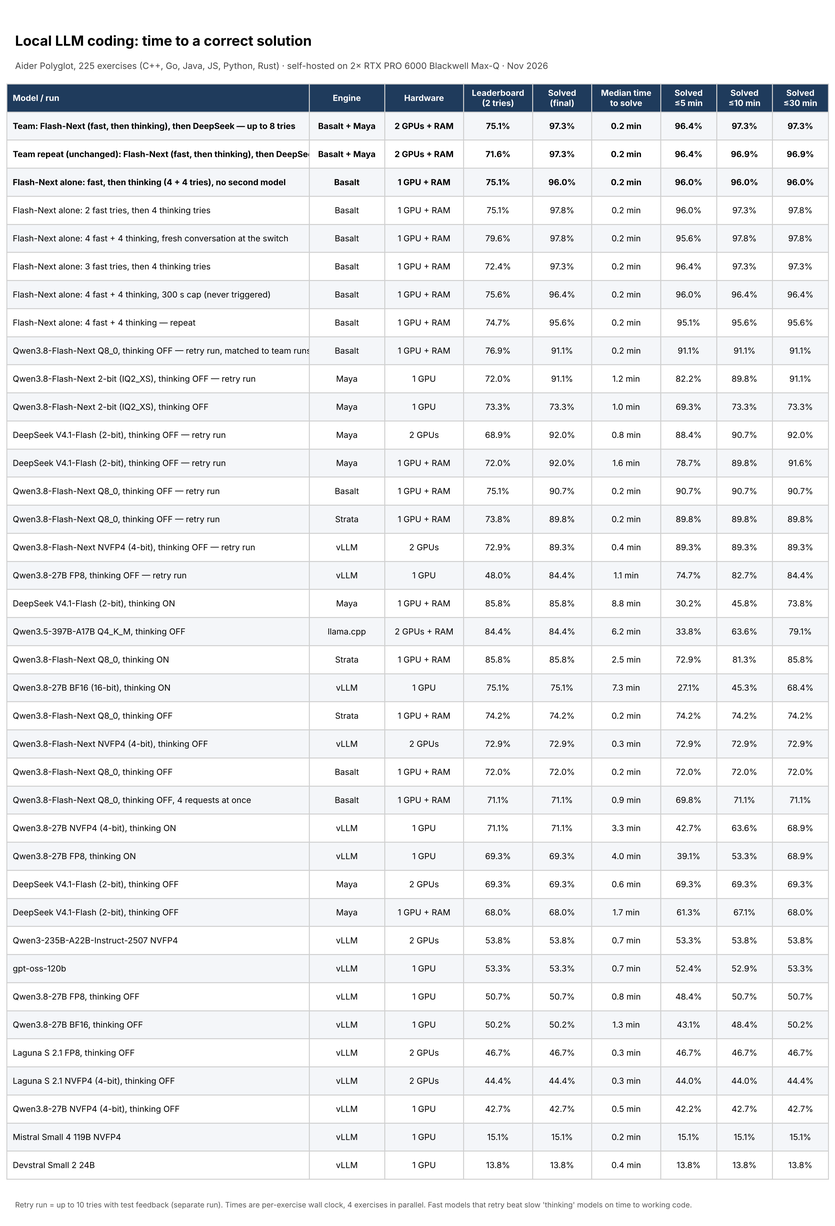
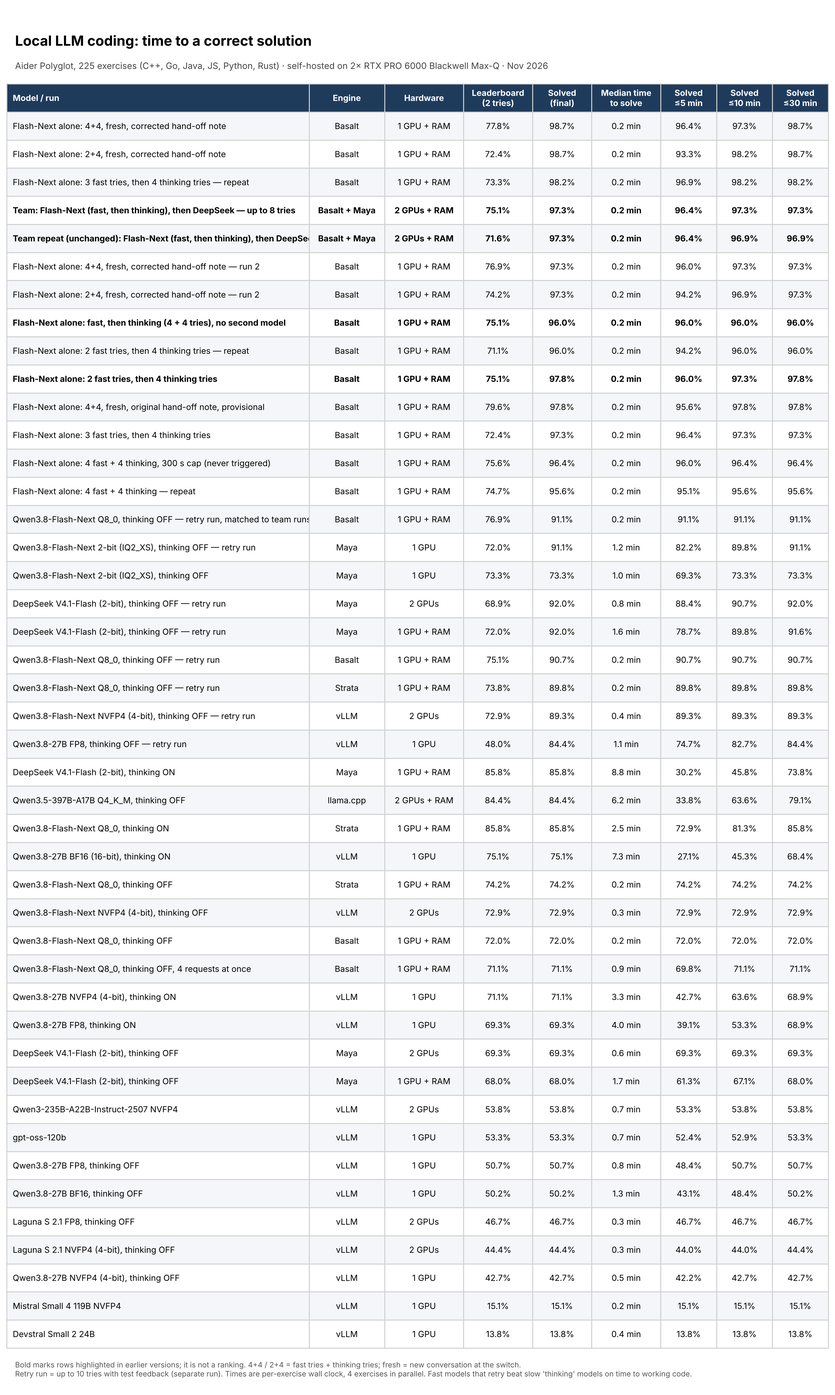
Add six runs: 3+4 and 2+4 repeats (221, 216) and corrected fresh-conversation runs (222, 219, 222, 219)
Claude-Session: https://claude.ai/code/session_018R7iyKZt9Jh9PFoRBch6Xr

Changed region(s): [[0.0, 0.0312, 1.0, 0.9978]]

diff --git a/tools/make_tables.py b/tools/make_tables.py
@@ -32,11 +32,17 @@ render("time_to_solution.png",
        "Local LLM coding: time to a correct solution",
        "Aider Polyglot, 225 exercises (C++, Go, Java, JS, Python, Rust) · self-hosted on 2× RTX PRO 6000 Blackwell Max-Q · Nov 2026",
        ["Model / run", "Engine", "Hardware", "Leaderboard\n(2 tries)", "Solved\n(final)", "Median time\nto solve", "Solved\n≤5 min", "Solved\n≤10 min", "Solved\n≤30 min"],
-       [['Team: Flash-Next (fast, then thinking), then DeepSeek — up to 8 tries', 'Basalt + Maya', '2 GPUs + RAM', '75.1%', '97.3%', '0.2 min', '96.4%', '97.3%', '97.3%'],
+       [['Flash-Next alone: 4+4, fresh, corrected hand-off note', 'Basalt', '1 GPU + RAM', '77.8%', '98.7%', '0.2 min', '96.4%', '97.3%', '98.7%'],
+        ['Flash-Next alone: 2+4, fresh, corrected hand-off note', 'Basalt', '1 GPU + RAM', '72.4%', '98.7%', '0.2 min', '93.3%', '98.2%', '98.7%'],
+        ['Flash-Next alone: 3 fast tries, then 4 thinking tries — repeat', 'Basalt', '1 GPU + RAM', '73.3%', '98.2%', '0.2 min', '96.9%', '98.2%', '98.2%'],
+        ['Team: Flash-Next (fast, then thinking), then DeepSeek — up to 8 tries', 'Basalt + Maya', '2 GPUs + RAM', '75.1%', '97.3%', '0.2 min', '96.4%', '97.3%', '97.3%'],
         ['Team repeat (unchanged): Flash-Next (fast, then thinking), then DeepSeek — up to 8 tries', 'Basalt + Maya', '2 GPUs + RAM', '71.6%', '97.3%', '0.2 min', '96.4%', '96.9%', '96.9%'],
+        ['Flash-Next alone: 4+4, fresh, corrected hand-off note — run 2', 'Basalt', '1 GPU + RAM', '76.9%', '97.3%', '0.2 min', '96.0%', '97.3%', '97.3%'],
+        ['Flash-Next alone: 2+4, fresh, corrected hand-off note — run 2', 'Basalt', '1 GPU + RAM', '74.2%', '97.3%', '0.2 min', '94.2%', '96.9%', '97.3%'],
         ['Flash-Next alone: fast, then thinking (4 + 4 tries), no second model', 'Basalt', '1 GPU + RAM', '75.1%', '96.0%', '0.2 min', '96.0%', '96.0%', '96.0%'],
+        ['Flash-Next alone: 2 fast tries, then 4 thinking tries — repeat', 'Basalt', '1 GPU + RAM', '71.1%', '96.0%', '0.2 min', '94.2%', '96.0%', '96.0%'],
         ['Flash-Next alone: 2 fast tries, then 4 thinking tries', 'Basalt', '1 GPU + RAM', '75.1%', '97.8%', '0.2 min', '96.0%', '97.3%', '97.8%'],
-        ['Flash-Next alone: 4 fast + 4 thinking, fresh conversation at the switch', 'Basalt', '1 GPU + RAM', '79.6%', '97.8%', '0.2 min', '95.6%', '97.8%', '97.8%'],
+        ['Flash-Next alone: 4+4, fresh, original hand-off note, provisional', 'Basalt', '1 GPU + RAM', '79.6%', '97.8%', '0.2 min', '95.6%', '97.8%', '97.8%'],
         ['Flash-Next alone: 3 fast tries, then 4 thinking tries', 'Basalt', '1 GPU + RAM', '72.4%', '97.3%', '0.2 min', '96.4%', '97.3%', '97.3%'],
         ['Flash-Next alone: 4 fast + 4 thinking, 300 s cap (never triggered)', 'Basalt', '1 GPU + RAM', '75.6%', '96.4%', '0.2 min', '96.0%', '96.4%', '96.4%'],
         ['Flash-Next alone: 4 fast + 4 thinking — repeat', 'Basalt', '1 GPU + RAM', '74.7%', '95.6%', '0.2 min', '95.1%', '95.6%', '95.6%'],
@@ -70,8 +76,8 @@ render("time_to_solution.png",
         ['Qwen3.8-27B NVFP4 (4-bit), thinking OFF', 'vLLM', '1 GPU', '42.7%', '42.7%', '0.5 min', '42.2%', '42.7%', '42.7%'],
         ['Mistral Small 4 119B NVFP4', 'vLLM', '1 GPU', '15.1%', '15.1%', '0.2 min', '15.1%', '15.1%', '15.1%'],
         ['Devstral Small 2 24B', 'vLLM', '1 GPU', '13.8%', '13.8%', '0.4 min', '13.8%', '13.8%', '13.8%']],
-       [4.6, 1.15, 1.2, 1.05, 0.9, 1.05, 0.85, 0.85, 0.85], bold_rows=(0, 1, 2),
-       note="Retry run = up to 10 tries with test feedback (separate run). Times are per-exercise wall clock, 4 exercises in parallel. Fast models that retry beat slow 'thinking' models on time to working code.")
+       [4.6, 1.15, 1.2, 1.05, 0.9, 1.05, 0.85, 0.85, 0.85], bold_rows=(3, 4, 7, 9),  # rows bold in README (team, team repeat, 4+4 baseline, 2+4 first run); matches README
+       note="Bold marks rows highlighted in earlier versions; it is not a ranking. 4+4 / 2+4 = fast tries + thinking tries; fresh = new conversation at the switch.\nRetry run = up to 10 tries with test feedback (separate run). Times are per-exercise wall clock, 4 exercises in parallel. Fast models that retry beat slow 'thinking' models on time to working code.")
 
 render("t6_vs_7960.png",
        "Dell Pro Precision 9 T6 vs Precision 7960 for local LLM inference",

diff --git a/articles/stop-optimizing-a-model.md b/articles/stop-optimizing-a-model.md
@@ -1,8 +1,8 @@
 # Escalation on failure: a two-model local cascade solves 219 of 225 Aider Polyglot exercises
 
-*Brian K. Hudes, MD · AiMOS Systems · 24 November 2026*
+*Brian K. Hudes, MD · AiMOS Systems · 24 November 2026, updated 25 November 2026*
 
-*Preliminary. Two full runs of the cascade (the second an unchanged repeat, added 24 November). A matched single-model baseline and a run without the second model were added the same day (see Matched baseline and ablation), and five single-model variants on 24-25 November (see Variants). Technical companion to "Stop Optimizing a Model. Solve the Problem."*
+*Preliminary. Two full runs of the cascade (the second an unchanged repeat, added 24 November). A matched single-model baseline and a run without the second model were added the same day (see Matched baseline and ablation), and five single-model variants on 24-25 November. Six further single-model runs followed on 25 November: repeats of the 2+4 and 3+4 variants and four runs with a fresh conversation at the switch and a corrected hand-off note (see Variants). All figures are in-sample on a public benchmark. Technical companion to "Stop Optimizing a Model. Solve the Problem."*
 
 ## Summary
 
@@ -13,8 +13,10 @@ The cascade is four fast tries from the coder, two tries from the same coder wit
 Three points are worth a technical reader's time:
 
 1. The per-attempt success rate of fast retries decays quickly (60% on try 2, 20% on try 4). Switching the same model to reasoning mode on try 5 brought it back to 46%.
-2. Reasoning mode accounts for 20 of the 22 solves after try 4. The second model accounts for 2. This run supports mode switching. It does not yet support model switching.
+2. Reasoning mode accounts for 20 of the 22 solves after try 4. The second model accounts for 2. This run supports mode switching. It does not yet support model switching (see the update below).
 3. On the leaderboard's two-try rule the cascade scores 75.1%. The 97.3% is a work-until-correct number and is not comparable with leaderboard scores.
+
+Update, 25 November: later single-model runs (no second model) reached 219 to 222 of 225, level with or above the two-model cascade's 219 and 219, so on this benchmark one model was enough. Every escalation run (215 to 222) beat the matched baseline (205). At 4 fast + 4 thinking, a fresh conversation at the switch is consistent in direction and likely a modest benefit; its size is not established, and the 2 fast + 4 thinking comparisons are mixed. Escalating earlier is not supported by the repeats. None of this is faster: the median time to a passing solution is 10.9 to 14.8 s across the single-model escalation runs against 10.3 s for the baseline. See Variants.
 
 ## Setup
 
@@ -135,7 +137,7 @@ What held and what did not:
 - **The headline held.** The same number of exercises was solved, and only 4 of 225 final outcomes differed between runs. The final result is much more stable than the first-two-try score, which moved by 3.5 points (75.1% to 71.6%).
 - **The decay of fast retries held** in both cascade runs (about 20 to 24% by try 4), and so did the recovery on the first thinking try (46% and 48%). The later run without a second model showed the same direction with a smaller step: 29% on try 4 and 38% on the first thinking try.
 - **The second thinking try did not hold.** It solved 7 of 15 in run 1 and 2 of 13 in the repeat. The first thinking try carries most of the benefit.
-- **DeepSeek's share rose from 2 to 5.** Thinking mode plus the second model solved 22 in run 1 and 19 in the repeat, but the split between them moved. The evidence for a separate benefit from the second model is still thin; the run without DeepSeek, now in progress, addresses it.
+- **DeepSeek's share rose from 2 to 5.** Thinking mode plus the second model solved 22 in run 1 and 19 in the repeat, but the split between them moved. The evidence for a separate benefit from the second model is still thin; the run without DeepSeek (see Matched baseline and ablation) addresses it.
 
 ## Matched baseline and ablation
 
@@ -175,11 +177,11 @@ What this settles and what it does not:
 - **The gain survives matched settings.** With identical settings the single model solved 205 and the cascade 219 in both runs. After four fast tries the baseline had 198 solved and 27 open; six more fast tries solved 7 of them. In the no-second-model run, 201 were solved after four fast tries and four thinking tries solved 15 of the remaining 24.
 - **The cascade is not faster on the typical exercise.** The matched baseline has the lowest median (10.3 s). Escalation buys solve rate, at the cost of a longer tail and a longer run.
 - **Most of the gain needs only one model.** Switching Flash-Next to thinking mode, with no second model and one GPU, reached 216. The two cascade runs reached 219. The paired difference between them (5 vs 2, and 6 vs 3) is not distinguishable from run-to-run variation, which changed 4 outcomes between two identical cascade runs.
-- **A second model may still add a little.** Both cascade runs finished 3 above the single-model run, and DeepSeek solved 2 and 5 exercises that had survived six attempts. Three runs are not enough to tell a small real effect from noise. It costs a second GPU and about an hour per run.
+- **A second model may still add a little.** Both cascade runs finished 3 above the single-model run, and DeepSeek solved 2 and 5 exercises that had survived six attempts. Three runs are not enough to tell a small real effect from noise. It costs a second GPU and about an hour per run. Later single-model runs reached 219 to 222, level with or above the cascade (see Variants of the single-model cascade), so no benefit from a second model is shown.
 
 ## Variants of the single-model cascade (24-25 November)
 
-Five more runs, all Flash-Next alone on one GPU with the cascade's settings (summaries off, 1 thread). Two ran side by side, one model instance per GPU.
+Eleven more runs, all Flash-Next alone on one GPU with the cascade's settings (summaries off, 1 thread): five on 24-25 November, then six on 25 November (the last six rows of the table). Two ran side by side, one model instance per GPU. The six later runs used harness version 0.3.1, which differs from the earlier 0.3.0 only in the wording of the same-model hand-off note; it was independently reviewed before the fresh runs started. In a "fresh" run the conversation is reset when the model switches from fast to thinking tries, and a short brief says the earlier attempts were its own quick attempts that did not pass the tests. In a "keep" run the conversation continues.
 
 | Variant | Solved | Within 2 tries | Median | Mean / 90th pct | Wall clock | Solved at each try |
 |---|---|---|---|---|---|---|
@@ -188,21 +190,37 @@ Five more runs, all Flash-Next alone on one GPU with the cascade's settings (sum
 | 4 fast + 4 thinking, thinking tries capped at 300 s | 217 (96.4%) | 75.6% | 12.5 s | 26.7 / 70.2 s | 2 h 17 min | 88, 82, 25, 6 / 13, 1, 2, 0 |
 | 2 fast + 4 thinking (6 tries) | 220 (97.8%) | 75.1% | 12.8 s | 42.7 / 98.8 s | 3 h 11 min | 84, 85 / 38, 10, 1, 2 |
 | 3 fast + 4 thinking (7 tries) | 219 (97.3%) | 72.4% | 12.8 s | 35.5 / 84.0 s | 3 h 15 min | 81, 82, 26 / 19, 6, 3, 2 |
-| 4 fast + 4 thinking, fresh conversation at the switch | 220 (97.8%) | 79.6% | 11.5 s | 32.1 / 54.2 s | 3 h 24 min | 82, 97, 16, 9 / 11, 3, 2, 0 |
+| 4 fast + 4 thinking, fresh conversation at the switch (original hand-off note, provisional) | 220 (97.8%) | 79.6% | 11.5 s | 32.1 / 54.2 s | 3 h 24 min | 82, 97, 16, 9 / 11, 3, 2, 0 |
+| 3 fast + 4 thinking, repeat | 221 (98.2%) | 73.3% | 12.1 s | 36.7 / 83.4 s | 3 h 03 min | 89, 76, 27 / 18, 7, 3, 1 |
+| 2 fast + 4 thinking, repeat | 216 (96.0%) | 71.1% | 13.9 s | 41.7 / 112.1 s | 3 h 16 min | 84, 76 / 41, 11, 4, 0 |
+| 4 fast + 4 thinking, fresh, corrected hand-off note | 222 (98.7%) | 77.8% | 13.1 s | 41.8 / 91.3 s | 3 h 27 min | 87, 88, 21, 5 / 13, 6, 0, 2 |
+| 4 fast + 4 thinking, fresh, corrected hand-off note, second run | 219 (97.3%) | 76.9% | 11.9 s | 33.1 / 71.5 s | 3 h 22 min | 90, 83, 16, 13 / 13, 2, 1, 1 |
+| 2 fast + 4 thinking, fresh | 222 (98.7%) | 72.4% | 14.8 s | 66.4 / 224.3 s | 5 h 00 min | 84, 79 / 49, 8, 1, 1 |
+| 2 fast + 4 thinking, fresh, second run | 219 (97.3%) | 74.2% | 12.7 s | 55.5 / 194.3 s | 4 h 52 min | 87, 80 / 42, 6, 2, 2 |
 
-No infrastructure errors in any run.
+No infrastructure errors in any run, and no thinking try reached its time limit in the six runs of 25 November.
 
-Paired against the matched baseline (exact McNemar, nominal): 4+4 repeat 12 vs 2 (p = 0.013); 300 s cap 13 vs 1 (p = 0.002); 2+4 17 vs 2 (p = 0.0007); 3+4 14 vs 0 (p = 0.0001); fresh 15 vs 0 (p = 0.00006).
+Paired against the matched baseline (exact McNemar, nominal): 4+4 repeat 12 vs 2 (p = 0.013); 300 s cap 13 vs 1 (p = 0.002); 2+4 17 vs 2 (p = 0.0007); 3+4 14 vs 0 (p = 0.0001); original fresh 15 vs 0 (p = 0.00006).
+
+The six runs of 25 November, paired against the baseline (solved only by the variant vs only by the baseline; counts only, no p-values computed): 3+4 repeat 17 vs 1; 2+4 repeat 13 vs 2; 4+4 fresh 17 vs 0 and 14 vs 0; 2+4 fresh 17 vs 0 and 15 vs 1.
+
+Repeats of the same configuration (solved only by the first vs only by the second): 3+4 repeat against the first 3+4 run 3 vs 1; 2+4 repeat against the first 2+4 run 1 vs 5; the two corrected 4+4 fresh runs 4 vs 1; the two 2+4 fresh runs 3 vs 0.
+
+Fresh against keep, 4+4: the first corrected fresh run against the three keep runs (216, 215, 217) 8 vs 2, 8 vs 1, 6 vs 1; the second 5 vs 2, 5 vs 1, 4 vs 2. Fresh against keep, 2+4: the first 2+4 fresh run against the 2+4 repeat 6 vs 0 and against the first 2+4 run 3 vs 1; the second against the repeat 5 vs 2 and against the first 3 vs 4. The two fresh schedules against each other (4+4 first corrected run vs 2+4 first fresh run): 2 vs 2.
+
+Exercises still open after the fast tries, and how many the thinking tries then solved: 4+4 keep 15 of 24, 16 of 26 and 16 of 24; 4+4 fresh, original note, 16 of 21; 4+4 fresh, corrected, 21 of 24 and 17 of 23; 3+4 keep 30 of 36 and 29 of 33; 2+4 keep 51 of 56 and 56 of 65; 2+4 fresh 59 of 62 and 52 of 58.
 
 What these runs show:
 
-- **The single-model result is stable and repeats.** Three runs of 4 fast + 4 thinking gave 216, 215 and 217 (the 300 s cap never fired, so that run is in effect a third repeat). Every escalation run, in every configuration, beat the matched baseline's 205.
-- **A second model is not needed to reach the top of the range.** Three single-model variants scored 219, 220 and 220, level with or above the two-model cascade's 219 and 219. All eight escalation runs fall between 215 and 220.
-- **Escalating earlier trades time for a few exercises.** With 2 or 3 fast tries the count was 220 and 219, against 215 to 217 with 4 fast tries, but the runs took about 35 minutes longer because roughly twice as many exercises reach the slow thinking tries. The paired differences against the 4+4 runs (4 vs 0, 7 vs 2, 5 vs 2 for the 2+4 run) are not significant on their own.
-- **A fresh conversation at the switch may help, and is not yet shown to.** The fresh run solved 16 of the 21 exercises still open after four fast tries (76%), against 15 of 24, 16 of 26 and 16 of 24 (62 to 67%) when the failed attempts stay in the conversation. Paired against the three 4+4 runs: 5 vs 1, 6 vs 1 and 4 vs 1. Consistent in direction, not significant, and the hand-off note in this run wrongly told the model the earlier attempts were by another model. It needs a corrected rerun.
-- **The time cap is untested.** No thinking try reached the 300 s limit in that run, so it says nothing about whether a cap recovers time. The shorter wall clock (2 h 17 min) is run-to-run variation. A tighter cap is needed to test the idea.
-- **The first two tries are noisy.** The share solved within two tries ranged from 71.6% to 79.6% across runs that are identical for those tries.
-- **Two exercises were never solved** in any of the nine team-harness runs: cpp/spiral-matrix and java/rational-numbers. go/robot-simulator was solved once, in the 2+4 run. In all, 28 of the 225 exercises went unsolved in at least one run.
+- **The single-model result is stable and repeats.** Three runs of 4 fast + 4 thinking with the conversation kept gave 216, 215 and 217 (the 300 s cap never fired, so that run is in effect a third repeat). Every escalation run, in every configuration (215 to 222), beat the matched baseline's 205; the paired counts against the baseline range from 12 vs 2 to 17 vs 0.
+- **One model is enough.** The single-model runs reached 219 to 222, level with or above the two-model cascade's 219 and 219. All escalation runs, with or without a second model, fall between 215 and 222.
+- **Escalating earlier is not supported.** The first runs of 2 fast + 4 thinking (220) and 3 fast + 4 thinking (219) looked like a gain over the 215 to 217 of 4 fast + 4 thinking with the conversation kept. The repeats moved 2+4 from 220 to 216 and 3+4 from 219 to 221, and 2+4 with the conversation kept (220, 216) overlaps 4+4 with the conversation kept (215 to 217). Earlier switching also sends more exercises to the slow thinking tries (56 to 65 open at the switch with 2 fast tries, against 24 to 26 with 4).
+- **At 4 fast + 4 thinking, a fresh conversation at the switch is consistent in direction and likely a modest benefit; its size is not established, and the 2 fast + 4 thinking comparisons are mixed.** For 4+4, the two corrected fresh runs solved 222 and 219 against 215 to 217 with the conversation kept, and the thinking tries rescued 21 of 24 and 17 of 23 of the open exercises against 15 of 24, 16 of 26 and 16 of 24. All six paired comparisons favour fresh (8 vs 2, 8 vs 1, 6 vs 1, 5 vs 2, 5 vs 1, 4 vs 2). Each comparison is small, the comparisons are not independent because they share runs, and the two corrected fresh runs differ from each other by three exercises (4 vs 1 paired). For 2+4 the pairs are mixed: the first 2+4 fresh run beat the 2+4 repeat 6 vs 0 and the first 2+4 run 3 vs 1; the second beat the repeat 5 vs 2 but trailed the first 2+4 run 3 vs 4. The first fresh run (220) used a hand-off note that wrongly called the earlier attempts "by another model"; it stays in the record as provisional and the corrected runs replace it as the evidence.
+- **Fresh with 2 fast tries was slow.** The two 2+4 fresh runs reached 222 and 219, level with 4+4 fresh (222 and 219; 2 vs 2 paired), but took 5 h 00 min and 4 h 52 min against 3 h 03 min to 3 h 27 min for the other four runs of 25 November. Their thinking tries wrote about 2.0 million completion tokens each, against about 0.74 to 0.97 million for the others. That is no accuracy gain for about 45% more wall clock on this benchmark.
+- **Escalation is not faster.** Escalation solves more, but the median time to a passing solution is not lower: 10.9 to 14.8 s across the single-model escalation runs against 10.3 s for the matched baseline. The cost is a longer tail and a longer run.
+- **The time cap is untested.** No thinking try reached its time limit in any run, including the 300 s cap run, so none of them says whether a cap recovers time. The shorter wall clock of the 300 s run (2 h 17 min) is run-to-run variation. A tighter cap is needed to test the idea.
+- **The first two tries are noisy.** The share solved within two tries ranged from 71.1% to 79.6% across runs that are identical for those tries.
+- **One exercise was never solved** in any of the fifteen harness runs: cpp/spiral-matrix. java/rational-numbers was solved once (the first corrected fresh 4+4 run) and go/robot-simulator twice (that run and the first 2+4 run). (An earlier count of 28 exercises unsolved in at least one run covered only the first nine runs and has not been recomputed.)
 
 ## Where the gain comes from
 
@@ -215,7 +233,7 @@ What these runs show:
 
 This is the central observation. It compares two different runs, so it shares the single-run caveat below.
 
-**DeepSeek's contribution is small in this run.** Eight exercises reached DeepSeek and it solved two. Those eight had already survived six attempts by Flash-Next, so they are the hardest in the set, and 2 of 8 says little about DeepSeek in general. An earlier offline comparison of the two single-model retry runs found that DeepSeek solved 14 exercises Flash-Next never solved in 10 tries, for a union of 218 of 225. The cascade reached 219, about that union, with reasoning mode doing most of the work DeepSeek would otherwise have done. Whether a second model adds anything beyond reasoning mode is open. The run without DeepSeek will answer it.
+**DeepSeek's contribution is small in this run.** Eight exercises reached DeepSeek and it solved two. Those eight had already survived six attempts by Flash-Next, so they are the hardest in the set, and 2 of 8 says little about DeepSeek in general. An earlier offline comparison of the two single-model retry runs found that DeepSeek solved 14 exercises Flash-Next never solved in 10 tries, for a union of 218 of 225. The cascade reached 219, about that union, with reasoning mode doing most of the work DeepSeek would otherwise have done. Whether a second model adds anything beyond reasoning mode is open. Later single-model runs reached 219 to 222, which gives no sign that a second model adds anything beyond reasoning mode on this benchmark (see Variants of the single-model cascade).
 
 **Repetition is not useless for every model.** DeepSeek alone on two GPUs kept finding solutions late: tries 5 to 8 added 14 of the 32 exercises still open after try 4. On one GPU the same model added 5 of 23 and nothing after try 6. The decay of fast retries is clear for Flash-Next and mixed for DeepSeek.
 
@@ -255,7 +273,7 @@ The nearer comparison is with systems that iterate until tests pass. The highest
 
 ## Limits
 
-- Two runs of the cascade, both 219 of 225. The single-model baselines it is compared with are not yet matched in settings (see Confounds), so the size of the gain over a matched baseline is not established.
+- Two runs of the cascade, both 219 of 225. A matched baseline (205) exists; escalation beat it in every run, and the gain is in-sample (see Confounds).
 - Small, self-contained exercises with complete test suites. This says nothing about large repositories, ambiguous requirements or tasks with no tests.
 - The benchmark is public and old enough that some exercises may be in the training data of both models. That affects absolute scores more than the comparison between the cascade and the same models alone.
 - Attempts are unequal in cost. A try count is a poor unit. Wall-clock time to a passing solution is the measure I report and the one I would ask others to report.
@@ -265,10 +283,10 @@ The nearer comparison is with systems that iterate until tests pass. The highest
 
 1. Done: the cascade was repeated unchanged (see Replication).
 2. Done: the matched baseline (see Matched baseline and ablation).
-3. Done: the cascade without DeepSeek (see Matched baseline and ablation). More repeats are needed to tell whether the second model's small apparent contribution is real.
+3. Done: the cascade without DeepSeek (see Matched baseline and ablation). More repeats are needed to tell whether the second model's small apparent contribution is real. Later single-model runs (219 to 222) show no gain from a second model.
 4. A tighter time budget on the reasoning stages (the 300 s cap tried on 24 November never fired; see Variants).
-5. Done once: earlier escalation (see Variants). Needs repeats.
-6. A corrected rerun of the fresh-conversation variant, with repeats.
+5. Done: earlier escalation was repeated (see Variants); the repeats do not support it.
+6. Done: corrected reruns of the fresh-conversation variant, twice at 4+4 and twice at 2+4 (see Variants). Likely a modest benefit; more repeats are needed to establish its size. The 2+4 fresh runs were slow.
 7. Other line-ups and other hardware.
 
 ## Data

diff --git a/RESULTS.md b/RESULTS.md
@@ -226,7 +226,7 @@ Reading this fairly:
 - Repeated unchanged on 2026-11-24 (run `full-team-qfn-think-ds-nosum-diff-rep2-1124-0439`): again 219 / 225 (97.3%); 2-try 71.6%; median 12.8 s, mean 39.8 s, 90th percentile 56.9 s; wall clock 3 h 26 min; solved by stage 200 / 14 / 5 (by try: 83, 78, 31, 8 | 12, 2 | 3, 2); no infrastructure errors. Paired with run 1: 217 solved in both, 2 only in run 1 (cpp/grade-school, rust/xorcism), 2 only in the repeat (java/hangman, java/zipper), 4 unsolved in both (cpp/kindergarten-garden, cpp/spiral-matrix, go/robot-simulator, java/rational-numbers).
 - The final solve count was stable across the two runs (4 of 225 outcomes differed); the 2-try score moved by 3.5 points and the split between thinking mode and DeepSeek moved (20/2 vs 14/5).
 - The team run is longer in total because the hard exercises now get thinking-mode attempts instead of being abandoned.
-- Settings caveat: this run had aider's chat-history summaries off; the single-model retry runs had them on. Summaries off shortened median time by about a quarter in a separate test, so the 11.5 s vs 13.6 s difference should not be credited to the team. A matched baseline is planned.
+- Settings caveat: this run had aider's chat-history summaries off; the single-model retry runs had them on. Summaries off shortened median time by about a quarter in a separate test, so the 11.5 s vs 13.6 s difference should not be credited to the team. The matched baseline was run on 2026-11-24 (see below).
 - Write-up: [articles/stop-optimizing-a-model.md](articles/stop-optimizing-a-model.md).
 - Folder: `2026-11-23-23-26-13--full-team-qfn-think-ds-nosum-diff-1123-2325`.
 
@@ -248,11 +248,85 @@ Unsolved:
 - 3+4 (6): cpp/kindergarten-garden, cpp/meetup, cpp/spiral-matrix, go/robot-simulator, java/rational-numbers, javascript/react.
 - 300 s cap (8): cpp/meetup, cpp/spiral-matrix, go/robot-simulator, java/rational-numbers, java/series, java/zipper, javascript/react, python/bowling.
 - Fresh (5): cpp/spiral-matrix, go/robot-simulator, java/hangman, java/rational-numbers, java/zipper.
-- Unsolved in all nine team-harness runs: cpp/spiral-matrix, java/rational-numbers.
+- Unsolved in all nine team-harness runs: cpp/spiral-matrix, java/rational-numbers. (As of 2026-11-25, across fifteen runs, only cpp/spiral-matrix is unsolved in all; see the next section.)
 
 Paired against the matched baseline (solved only by the variant vs only by the baseline): 4+4 repeat 12/2; 300 s cap 13/1; 2+4 17/2; 3+4 14/0; fresh 15/0.
 
-Caveats: the fresh-conversation run used a hand-off note that says the earlier attempts were "by another model" (they were by the same model); treat it as provisional. The harness version changed between the earlier runs and these (0.2.2 to 0.3.0); an independent review found behaviour identical with the new option off.
+Caveats: the fresh-conversation run used a hand-off note that says the earlier attempts were "by another model" (they were by the same model); treat it as provisional. Superseded in part: corrected fresh-conversation reruns, and repeats of 2+4 and 3+4, are in the next section. The harness version changed between the earlier runs and these (0.2.2 to 0.3.0); an independent review found behaviour identical with the new option off.
+
+## Single-model cascade: repeats and corrected fresh-conversation runs (2026-11-25)
+
+Six further runs of Flash-Next Q8_0 alone on Basalt v0.5.5, one GPU + RAM per run, summaries off, 1 thread, diff format, temperature 0, one model, thinking tries limited to 1800 s. Two lanes ran concurrently, one per GPU (chain ran 2026-11-25 04:29:50Z to 17:52:34Z), so wall clocks are not strictly comparable with runs that had the machine to themselves. All six: rc=0, 225 of 225 finished, no infrastructure errors, and no thinking try hit its 1800 s limit.
+
+Harness: version 0.3.1, commit 85f0097, clean, for every run. It differs from 0.3.0 only in the wording of the hand-off note used when one model switches mode with a fresh conversation; it was independently reviewed before the fresh runs started. "Fresh" = the conversation is reset at the switch from fast to thinking tries, and the model is given a short brief stating that the earlier attempts were its own quick attempts and did not pass the tests (this corrects the earlier wording "by another model"). "Keep" = the conversation continues.
+
+| Run folder suffix | Schedule | Conversation at switch | Solved | 2-try | Median s | Mean s | 90th pct s | Wall | <=5 / <=10 / <=30 min | Solved at try (fast tries, then thinking tries) |
+|---|---|---|---|---|---|---|---|---|---|---|
+| `full-team-qfn-early3-nosum-diff-1125-0431` (S1) | 3 fast + 4 thinking (repeat) | keep | 221 (98.2%) | 73.3% | 12.1 | 36.7 | 83.4 | 3h03m | 96.9 / 98.2 / 98.2% | 89, 76, 27, 18, 7, 3, 1 |
+| `full-team-qfn-early2-nosum-diff-1125-0433` (S2) | 2 fast + 4 thinking (repeat) | keep | 216 (96.0%) | 71.1% | 13.9 | 41.7 | 112.1 | 3h16m | 94.2 / 96.0 / 96.0% | 84, 76, 41, 11, 4, 0 |
+| `full-team-qfn-think-only-fresh-nosum-diff-1125-0737` (S3) | 4 fast + 4 thinking | fresh | 222 (98.7%) | 77.8% | 13.1 | 41.8 | 91.3 | 3h27m | 96.4 / 97.3 / 98.7% | 87, 88, 21, 5, 13, 6, 0, 2 |
+| `full-team-qfn-early2-fresh-nosum-diff-1125-0756` (S4) | 2 fast + 4 thinking | fresh | 222 (98.7%) | 72.4% | 14.8 | 66.4 | 224.3 | 5h00m | 93.3 / 98.2 / 98.7% | 84, 79, 49, 8, 1, 1 |
+| `full-team-qfn-think-only-fresh-nosum-diff-1125-1107` (S5) | 4 fast + 4 thinking | fresh | 219 (97.3%) | 76.9% | 11.9 | 33.1 | 71.5 | 3h22m | 96.0 / 97.3 / 97.3% | 90, 83, 16, 13, 13, 2, 1, 1 |
+| `full-team-qfn-early2-fresh-nosum-diff-1125-1259` (S6) | 2 fast + 4 thinking | fresh | 219 (97.3%) | 74.2% | 12.7 | 55.5 | 194.3 | 4h52m | 94.2 / 96.9 / 97.3% | 87, 80, 42, 6, 2, 2 |
+
+Fast-try solves: S1 192, S2 160, S3 201, S4 163, S5 202, S6 167. Thinking-try solves: S1 29, S2 56, S3 21, S4 59, S5 17, S6 52.
+
+Tokens (prompt / completion), as printed:
+- S1: fast 3,909,016 / 672,329; thinking 701,899 / 739,855
+- S2: fast 2,863,914 / 588,327; thinking 1,235,440 / 960,179
+- S3: fast 3,819,601 / 670,322; thinking 455,116 / 967,041
+- S4: fast 2,911,752 / 586,337; thinking 633,873 / 2,029,976
+- S5: fast 3,885,392 / 662,784; thinking 550,312 / 969,110
+- S6: fast 2,980,829 / 583,772; thinking 1,117,957 / 1,999,793
+
+Unsolved:
+- S1 (4): cpp/spiral-matrix, go/robot-simulator, java/rational-numbers, python/sgf-parsing.
+- S2 (9): cpp/grade-school, cpp/kindergarten-garden, cpp/meetup, cpp/queen-attack, cpp/spiral-matrix, go/paasio, go/robot-simulator, java/rational-numbers, javascript/affine-cipher.
+- S3 (3): cpp/kindergarten-garden, cpp/spiral-matrix, java/zipper.
+- S4 (3): cpp/spiral-matrix, go/robot-simulator, java/rational-numbers.
+- S5 (6): cpp/grade-school, cpp/spiral-matrix, go/robot-simulator, java/hangman, java/rational-numbers, java/zipper.
+- S6 (6): cpp/kindergarten-garden, cpp/spiral-matrix, go/robot-simulator, java/rational-numbers, java/zipper, rust/simple-cipher.
+- Across all fifteen harness runs to date (the nine earlier runs plus these six), cpp/spiral-matrix is the only exercise unsolved in all fifteen. java/rational-numbers was solved once (S3); go/robot-simulator was solved twice (the first 2+4 run and S3).
+
+Paired counts (solved only by the first vs only by the second; all 225 ids shared; counts only, no significance tests computed for these):
+- Against the matched baseline (10 fast tries, 205 solved): S1 17/1; S2 13/2; S3 17/0; S4 17/0; S5 14/0; S6 15/1.
+- Repeats of the same configuration: S1 vs the first 3+4 run (219) 3/1; S2 vs the first 2+4 run (220) 1/5; S3 vs S5 4/1; S4 vs S6 3/0.
+- Fresh vs keep, 4 fast + 4 thinking: S3 vs the three keep-conversation 4+4 runs (216, 215, 217 with the inert cap) 8/2, 8/1, 6/1; S5 vs the same three 5/2, 5/1, 4/2.
+- Fresh vs keep, 2 fast + 4 thinking: S4 vs S2 6/0; S4 vs the first 2+4 run 3/1; S6 vs S2 5/2; S6 vs the first 2+4 run 3/4.
+- S3 vs S4 (4+4 fresh vs 2+4 fresh): 2/2.
+
+Exercises still open at the switch, and how many the thinking tries then solved (open = 225 minus fast-try solves; rescued = thinking-try solves):
+
+| Run | Schedule | Conversation | Open at switch | Rescued by thinking tries |
+|---|---|---|---|---|
+| 4+4 first run | 4+4 | keep | 24 | 15 |
+| 4+4 repeat | 4+4 | keep | 26 | 16 |
+| 4+4, inert 300 s cap | 4+4 | keep | 24 | 16 |
+| 4+4 fresh, original brief wording (provisional) | 4+4 | fresh | 21 | 16 |
+| S3 | 4+4 | fresh | 24 | 21 |
+| S5 | 4+4 | fresh | 23 | 17 |
+| 3+4 first run | 3+4 | keep | 36 | 30 |
+| S1 | 3+4 | keep | 33 | 29 |
+| 2+4 first run | 2+4 | keep | 56 | 51 |
+| S2 | 2+4 | keep | 65 | 56 |
+| S4 | 2+4 | fresh | 62 | 59 |
+| S6 | 2+4 | fresh | 58 | 52 |
+
+Timing note, 2+4 fresh runs: S4 and S6 took 5h00m and 4h52m, against 3h03m to 3h27m for the other four. Their thinking tries produced about 2.0 million completion tokens each, against about 0.74 to 0.97 million for the others; thinking-stage time was 11,968 s (S4) and 11,704 s (S6) against 4,622 to 6,043 s for the rest. With 2 fast tries, 58 to 62 exercises reach the thinking tries (23 to 24 with 4 fast tries, in the two corrected 4+4 fresh runs), and with a fresh conversation each of those starts its reasoning without the earlier turns. Slowest exercises in S4: go/robot-simulator 1140.4 s (unsolved), cpp/binary-search-tree 886.1 s, cpp/all-your-base 585.2 s. Time spent on exercises that ended unsolved: S4 1530.6 s, S3 1242.3 s.
+
+Median time to a passing solution was 11.9 to 14.8 s across these six runs; matched baseline 10.3 s. Not faster.
+
+All fifteen harness runs, solved of 225: matched baseline (10 fast tries) 205; 4+4 keep 216, 215, 217 (third with a 300 s cap that never fired); 4+4 fresh 220 (original brief wording, provisional), 222 (S3), 219 (S5); 3+4 keep 219, 221 (S1); 2+4 keep 220, 216 (S2); 2+4 fresh 222 (S4), 219 (S6); two-model cascade (second model for the last two tries) 219, 219.
+
+Reading:
+- Every escalation run (215 to 222) beat the matched baseline (205); paired counts against the baseline range from 12/2 to 17/0.
+- One model is enough: single-model runs reached 219 to 222; the two-model cascade reached 219 and 219.
+- Fresh conversation at the switch: for 4+4, the two corrected fresh runs solved 222 and 219 against 215 to 217 for keep; the thinking tries rescued 21 of 24 and 17 of 23 against 15 of 24, 16 of 26 and 16 of 24; all six paired comparisons favour fresh. Consistent in direction, but each comparison is small, the comparisons are not independent (they share runs), and the two fresh runs differ from each other by three exercises (4/1 paired). A likely modest benefit; the size is not established. At 2+4 the pairs are mixed (the second fresh run against the first 2+4 run is 3/4).
+- Earlier escalation is not supported: the repeats moved 2+4 from 220 to 216 and 3+4 from 219 to 221, and 2+4 keep (220, 216) overlaps 4+4 keep (215 to 217).
+- 2+4 fresh reached 222 and 219, level with 4+4 fresh (222, 219; S3 vs S4 2/2), but took about five hours against about three and a half: no accuracy gain for about 45% more wall clock on this benchmark.
+- Run-to-run noise: identical configurations differed by up to four exercises in total (2+4 keep: 220 vs 216) and by up to six exercises changing outcome (1/5). The within-two-tries score ranged from 71.1% to 79.6% across all runs, although tries 1 and 2 are configured identically everywhere.
+- No thinking try reached a time limit in any run; a time cap remains untested.
+- All figures are in-sample (stage boundaries tuned on the same exercises), on a public benchmark, work-until-correct, and not comparable with two-try leaderboard scores.
 
 ## Matched baseline, no-second-model run and Maya 2-bit Flash-Next (2026-11-24)
 
@@ -269,7 +343,7 @@ All four ran unattended after the team repeat. No infrastructure errors.
 - No second model vs the team runs: 216 vs 219. Paired differences 5 vs 2 and 6 vs 3, within the variation between two identical team runs (4 outcomes changed).
 - Unsolved in the matched baseline (20): cpp/circular-buffer, cpp/grade-school, cpp/kindergarten-garden, cpp/meetup, cpp/spiral-matrix, go/connect, go/robot-simulator, java/bowling, java/connect, java/custom-set, java/hangman, java/rational-numbers, java/satellite, java/zipper, javascript/affine-cipher, javascript/grade-school, javascript/react, javascript/resistor-color-trio, python/bowling, rust/forth.
 - Unsolved without the second model (9): cpp/meetup, cpp/queen-attack, cpp/spiral-matrix, go/paasio, go/robot-simulator, java/hangman, java/rational-numbers, java/zebra-puzzle, javascript/go-counting.
-- Never solved in any of the four team-harness runs: cpp/spiral-matrix, go/robot-simulator, java/rational-numbers.
+- Never solved in any of the four team-harness runs: cpp/spiral-matrix, go/robot-simulator, java/rational-numbers (as of 2026-11-24; see the fifteen-run summary below).
 - Maya 2-bit: the smoke test before these runs passed only 2 of 5, but the full runs match the 8-bit model's solve rate (73.3% in 2 tries; 91.1% in 10). They ran with the standard chat summaries and 4 threads on one GPU, so the times (median about 1 min) are not comparable with the 1-thread Basalt runs.
 
 ## Qwen3.8-27B BF16 (16-bit) — thinking ON (2026-11-22)

diff --git a/README.md b/README.md
@@ -7,17 +7,25 @@ the hardware config and date it was run under.
 
 **New (24 Nov 2026):** a team of two local models solved 97.3% of the benchmark in one run. Technical write-up: [Escalation on failure: a two-model local cascade solves 219 of 225 Aider Polyglot exercises](articles/stop-optimizing-a-model.md)
 
+**Update (25 Nov 2026):** six more single-model runs (Flash-Next alone, one GPU): repeats of the 3 fast + 4 thinking and 2 fast + 4 thinking runs, and four runs that start a fresh conversation at the switch to thinking with a corrected hand-off note. They solved 216 to 222 of 225, so the single-model escalation runs now span 215 to 222 against 205 for the matched baseline; the single-model runs (219 to 222) are level with or slightly above the two-model team's 219; the difference is within run-to-run variation. Escalation beat the baseline in every run and one model was enough. At 4 fast + 4 thinking, a fresh conversation at the switch is consistent in direction and likely a modest benefit; its size is not established, and the 2 fast + 4 thinking comparisons are mixed; escalating earlier is not supported by the repeats, and the 2 fast + 4 thinking fresh runs took about five hours against about three and a half. Details: [RESULTS.md](RESULTS.md) and the [article](articles/stop-optimizing-a-model.md). In-sample on a public benchmark; not comparable with two-try leaderboard scores.
+
 ## Headline: time to a correct solution
 
 What developers actually care about is how fast they get working code, not how many tries a model needs. This table scores every run on **wall-clock time to a correct solution**: the share of all 225 exercises solved within 5, 10 and 30 minutes of starting, all tries included. The standard leaderboard number (pass within 2 tries) is shown alongside for comparison.
 
 | Run | Engine | Hardware | Leaderboard score (2 tries) | Solved (final) | Median time to solve | Solved within 5 min | within 10 min | within 30 min |
 |---|---|---|---|---|---|---|---|---|
+| Flash-Next alone: 4 fast + 4 thinking, fresh conversation at the switch, corrected hand-off note | Basalt | 1 GPU + RAM | 77.8% | 98.7% | 0.2 min | 96.4% | 97.3% | 98.7% |
+| Flash-Next alone: 2 fast, then 4 thinking, fresh conversation at the switch, corrected hand-off note | Basalt | 1 GPU + RAM | 72.4% | 98.7% | 0.2 min | 93.3% | 98.2% | 98.7% |
+| Flash-Next alone: 3 fast tries, then 4 thinking tries — repeat | Basalt | 1 GPU + RAM | 73.3% | 98.2% | 0.2 min | 96.9% | 98.2% | 98.2% |
 | **Team: Qwen3.8-Flash-Next (fast, then thinking), then DeepSeek V4.1-Flash — up to 8 tries** | Basalt + Maya | 2 GPUs + RAM | 75.1% | **97.3%** | 0.2 min | 96.4% | 97.3% | 97.3% |
 | **Team repeat (unchanged): Flash-Next (fast, then thinking), then DeepSeek — up to 8 tries** | Basalt + Maya | 2 GPUs + RAM | 71.6% | 97.3% | 0.2 min | 96.4% | 96.9% | 96.9% |
+| Flash-Next alone: 4 fast + 4 thinking, fresh conversation at the switch, corrected hand-off note — second run | Basalt | 1 GPU + RAM | 76.9% | 97.3% | 0.2 min | 96.0% | 97.3% | 97.3% |
+| Flash-Next alone: 2 fast, then 4 thinking, fresh conversation at the switch, corrected hand-off note — second run | Basalt | 1 GPU + RAM | 74.2% | 97.3% | 0.2 min | 94.2% | 96.9% | 97.3% |
 | **Flash-Next alone, fast then thinking (4 + 4 tries), no second model** | Basalt | 1 GPU + RAM | 75.1% | 96.0% | 0.2 min | 96.0% | 96.0% | 96.0% |
+| Flash-Next alone: 2 fast tries, then 4 thinking tries — repeat | Basalt | 1 GPU + RAM | 71.1% | 96.0% | 0.2 min | 94.2% | 96.0% | 96.0% |
 | **Flash-Next alone: 2 fast tries, then 4 thinking tries** | Basalt | 1 GPU + RAM | 75.1% | 97.8% | 0.2 min | 96.0% | 97.3% | 97.8% |
-| **Flash-Next alone: 4 fast + 4 thinking, fresh conversation at the switch** | Basalt | 1 GPU + RAM | 79.6% | 97.8% | 0.2 min | 95.6% | 97.8% | 97.8% |
+| Flash-Next alone: 4 fast + 4 thinking, fresh conversation at the switch (original hand-off note, provisional) | Basalt | 1 GPU + RAM | 79.6% | 97.8% | 0.2 min | 95.6% | 97.8% | 97.8% |
 | Flash-Next alone: 3 fast tries, then 4 thinking tries | Basalt | 1 GPU + RAM | 72.4% | 97.3% | 0.2 min | 96.4% | 97.3% | 97.3% |
 | Flash-Next alone: 4 fast + 4 thinking, 300 s cap on thinking tries (cap never triggered) | Basalt | 1 GPU + RAM | 75.6% | 96.4% | 0.2 min | 96.0% | 96.4% | 96.4% |
 | Flash-Next alone: 4 fast + 4 thinking — repeat | Basalt | 1 GPU + RAM | 74.7% | 95.6% | 0.2 min | 95.1% | 95.6% | 95.6% |
@@ -51,6 +59,10 @@ What developers actually care about is how fast they get working code, not how m
 | Qwen3.8-27B NVFP4 (4-bit), thinking OFF | vLLM | 1 GPU | 42.7% | 42.7% | 0.5 min | 42.2% | 42.7% | 42.7% |
 | Mistral Small 4 119B NVFP4 | vLLM | 1 GPU | 15.1% | 15.1% | 0.2 min | 15.1% | 15.1% | 15.1% |
 | Devstral Small 2 24B | vLLM | 1 GPU | 13.8% | 13.8% | 0.4 min | 13.8% | 13.8% | 13.8% |
+
+Bold marks the rows highlighted in earlier versions of this page; it is not a ranking.
+
+**About the escalation rows:** "fresh conversation at the switch" means the conversation is reset when the same model goes from fast to thinking tries and it gets a short brief saying the earlier attempts were its own quick attempts that failed the tests. The 4 fast + 4 thinking row without "corrected hand-off note" (97.8%) used an earlier wording that wrongly called the earlier attempts "by another model"; treat it as provisional. The "Solved within" columns for the six rows added on 25 Nov were copied from the time-to-solution lines of the run chain log.
 
 **2 GPUs vs 1:** the same 2-bit DeepSeek build moved from 1 GPU + system RAM to fully on both GPUs went from 78.7% to 88.4% solved within 5 minutes, with the median time to solve halved (1.6 → 0.8 min), at the same final accuracy (92.0%).
 
